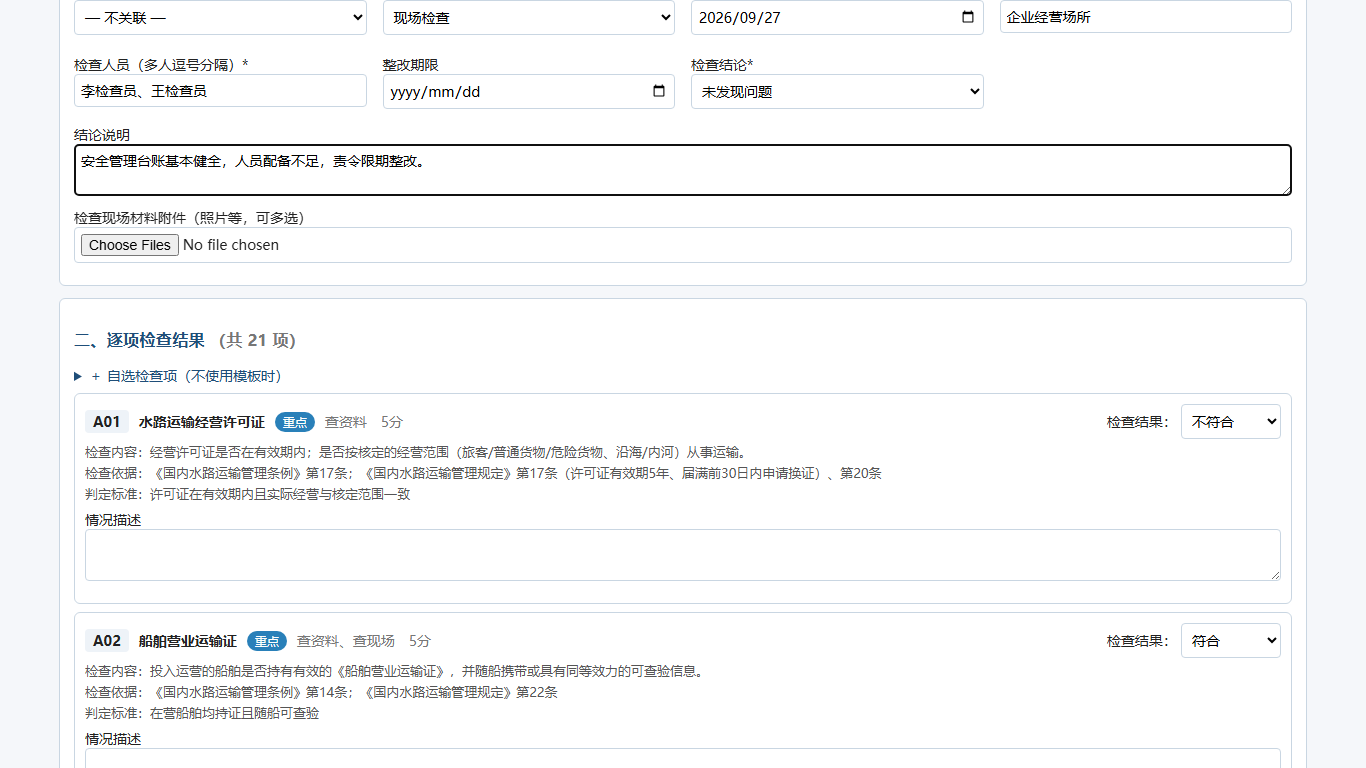
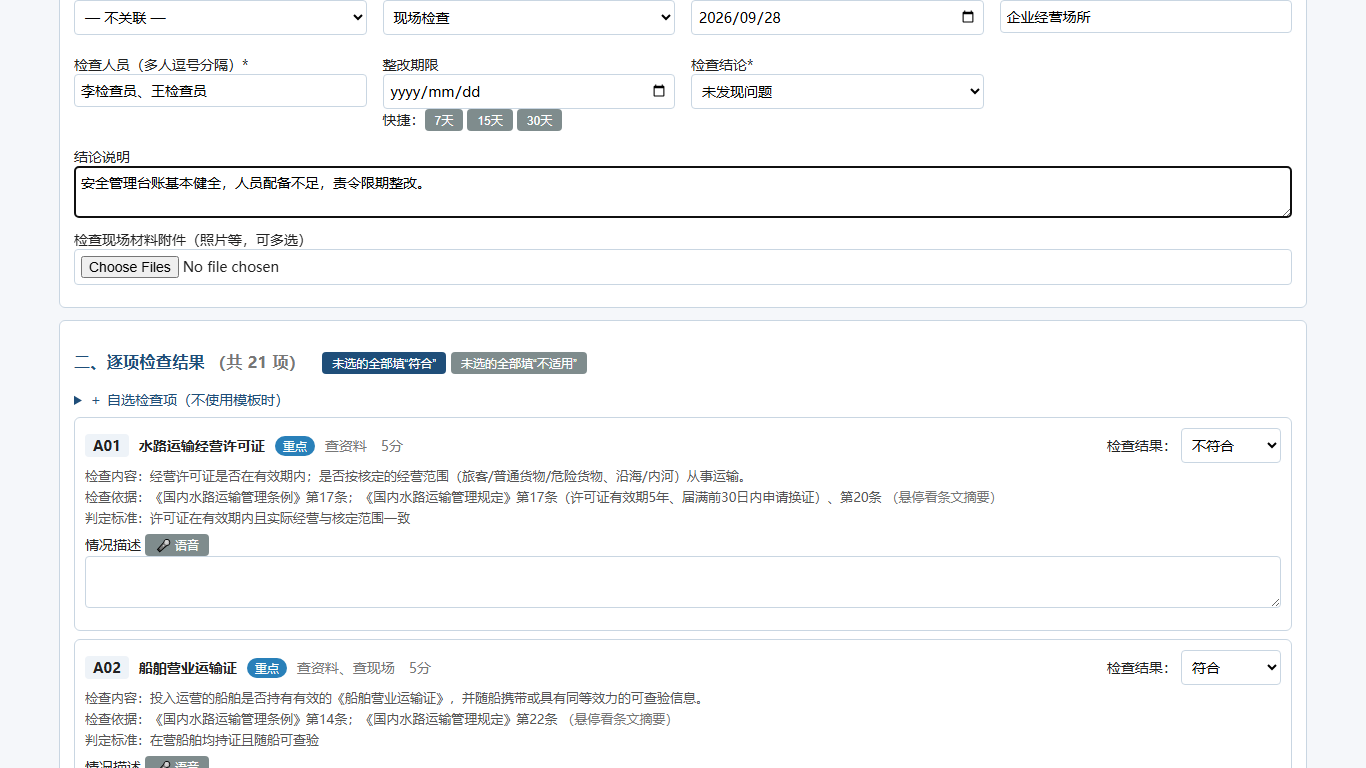
E2E 20→25（一键填充/快捷期限/连录/延期申请与审批进浏览器级回归）+ README 截图重生成（新UI）

diff --git a/e2e_test.py b/e2e_test.py
@@ -108,16 +108,21 @@ def main():
             page.click("#entform button")
             ok("新建企业（data-show 委托生效）", "E2E测试航运有限公司" in page.content())
 
-            # 3. 登记检查：模板 + 逐项下拉点选 + 提交
+            # 3. 登记检查：模板 + 一键填充 + 快捷期限 + 逐项点选 + 提交
             page.goto(URL + "/inspections/new")
             page.select_option("select[name=enterprise_id]", index=1)   # 首个企业（空库仅一家）
             page.select_option("#tpl_sel", index=1)
             selects = page.locator("select[data-res]")
             n = selects.count()
-            for i in range(n):
-                selects.nth(i).select_option(label="符合")   # data-res 变更委托
+            page.click("#btn-all-ok")                 # 未选项一键填充“符合”
+            filled = selects.evaluate_all("els => els.every(e => e.value === '符合')")
+            ok("一键填充（未选的全部填符合）", n > 0 and filled, f"n={n}")
+            page.click("button[data-deadline='15']")  # 快捷期限 15 天
+            ok("快捷整改期限（15天自动填）", bool(page.input_value("input[name=deadline]")),
+               page.input_value("input[name=deadline]"))
+            ok("连录按钮存在（保存并登记下一家）", page.locator("#btn-submit-next").count() == 1)
             cnt = page.locator("#item-count").inner_text()
-            ok("逐项结果点选生效（委托 change）", n > 0 and "共 %d 项" % n in cnt, f"n={n} cnt={cnt}")
+            ok("逐项结果点选生效（委托 change）", "共 %d 项" % n in cnt, f"n={n} cnt={cnt}")
             # 造一个“不符合”项 → 自动带出问题卡（走真实 onResult 委托路径）
             selects.first.select_option(label="不符合")
             req = page.locator("textarea[data-pf$=':requirement']").first
@@ -156,7 +161,13 @@ def main():
                 page.wait_for_load_state()
             ok("企业工作台待办区", "待我整改" in page.content() and "工作台" in page.content())
             page.goto(ins_url)
-            page.click("text=✎ 整改反馈")          # 子串匹配：按钮文案为“✎ 整改反馈（填写）”
+            page.evaluate("document.querySelectorAll('details').forEach(d => { d.open = true; })")   # 展开折叠区
+            # 延期申请（企业提出，政府稍后审批）
+            page.fill("input[name=ext_deadline]", "2030-06-30")
+            page.fill("input[name=ext_reason]", "E2E台风影响停工")
+            page.locator("form[action*='/ext'] button").click()
+            ok("企业提交延期申请", wait_text(page, "延期申请中"))
+            page.evaluate("document.querySelectorAll('details').forEach(d => { d.open = true; })")
             page.fill("textarea[name=measure]", "E2E整改措施：已整改到位")
             page.click("text=提交整改反馈")
             ok("企业整改反馈提交", wait_text(page, "待复核"))
@@ -169,6 +180,8 @@ def main():
             page.click("button[type=submit]")
             page.wait_for_load_state()
             page.goto(ins_url)
+            page.click("button[value='approve']")   # 批准延期（新期限生效并留痕）
+            ok("政府批准延期", wait_text(page, "延期已批准"))
             page.select_option("select[name=result]", "pass")
             page.click("text=提交复核")
             ok("复核通过自动闭环", wait_text(page, "已闭环"))

diff --git a/操作手册.md b/操作手册.md
@@ -103,5 +103,5 @@
 4. 数据存放在 `data\` 目录（数据库 app.db + 上传附件 uploads\ + 归档包 archives\ + 会话密钥 secret.key），备份直接拷贝该目录即可；WAL 模式下同目录还有 `app.db-wal`/`app.db-shm`，**手工备份一并拷走**（一键备份已自动处理）。
 5. 上线到政务外网时：会话密钥无需手改——首次启动会自动在 `data\secret.key` 生成随机密钥（也可用环境变量 `SLYS_SECRET` 指定，要求≥32位），请与数据库一并备份，**删除它会使全部已登录会话失效**。外网访问设置环境变量 **`SLYS_HOST=0.0.0.0`**（端口用 `SLYS_PORT` 覆盖）即可，**无需改源码**；Docker 部署直接 `docker compose up -d`（已默认 0.0.0.0）。
 6. 技术栈说明：原提示词为 Spring Boot 方案，本机无 JDK 故改用 Python FastAPI＋SQLite＋reportlab/openpyxl/python-docx（同等方案：零编译、双击启动、免数据库安装，适合政务内网小规模部署）。
-7. 回归测试：`python smoke_test.py` 跑 187 项全流程用例 + `python e2e_test.py` 20 项浏览器级 E2E（含签字画板、手机视口、CSP、审计哈希链），全绿即系统正常；测试用隔离数据目录，跑完自动清理。运行日志自动落盘 `data\logs\app.log`（超 5MB 轮转一代），排查问题看该文件。
+7. 回归测试：`python smoke_test.py` 跑 187 项全流程用例 + `python e2e_test.py` 25 项浏览器级 E2E（含签字画板、手机视口、CSP、审计哈希链、一键填充、延期审批），全绿即系统正常；测试用隔离数据目录，跑完自动清理。运行日志自动落盘 `data\logs\app.log`（超 5MB 轮转一代），排查问题看该文件。
 8. **可选配置**（环境变量，不配不影响主流程）：`SLYS_WEBHOOK_URL` 群机器人提醒推送｜`SLYS_PUSH_TIME` 推送时间（默认 08:30）｜`SLYS_PUBLIC_NOTICE` 公示页开关｜`SLYS_ALLOW_GOV_FEEDBACK` 允许政府代企业录整改反馈（默认允许并全程标注"代录"；置 0 则必须企业自行提交）。**HTTPS**：用 `deploy\nginx-sample.conf` 反代（替换域名与证书路径）。

diff --git a/需求规格说明书.md b/需求规格说明书.md
@@ -146,7 +146,7 @@
 3. 登记→下发→整改→复核→闭环→归档全流程走通，状态机正确；
 4. 归档 ZIP 内容齐全、文件可打开、SHA256 校验一致、命名合规；
 5. 归档锁定与更正留痕有效；操作日志完整；
-6. 回归测试 `python smoke_test.py` 187 项全绿 + `python e2e_test.py` 20 项浏览器级 E2E（安全机制、会话失效、越权隔离、XSS/CSRF、Cookie 安全属性、状态机、归档落盘与锁定、更正留痕、签字画板、打印、双随机种子可复现、计划核销、并发编号唯一、消息提醒与公示、批量打印、月度考核、船舶导入、审计日志哈希链、表单校验友好化、问题整改进度、服务端必填与引用校验、检查项版本历史、整改前后对比、未检查项、连录、延期申请审批、考核报表套打、服务端校验）；发布前用 `deploy\release.ps1` 一键检查（语法/回归/JS/文档口径/敏感文件门禁）。
+6. 回归测试 `python smoke_test.py` 187 项全绿 + `python e2e_test.py` 25 项浏览器级 E2E（安全机制、会话失效、越权隔离、XSS/CSRF、Cookie 安全属性、状态机、归档落盘与锁定、更正留痕、签字画板、打印、双随机种子可复现、计划核销、并发编号唯一、消息提醒与公示、批量打印、月度考核、船舶导入、审计日志哈希链、表单校验友好化、问题整改进度、服务端必填与引用校验、检查项版本历史、整改前后对比、未检查项、连录、延期申请审批、考核报表套打、一键填充、快捷期限、服务端校验）；发布前用 `deploy\release.ps1` 一键检查（语法/回归/JS/文档口径/敏感文件门禁）。
 
 ## 6. 技术实现说明
 原方案 Spring Boot＋PostgreSQL，因本机无 JDK 调整为 Python FastAPI＋SQLite＋reportlab/openpyxl/python-docx（同等方案：零编译、双击启动、免数据库安装）。页面即原型（B/S 已实现）。

diff --git a/README.md b/README.md
@@ -81,7 +81,7 @@ pdfgen/zipgen/exportgen   文书 PDF、归档 ZIP、Excel/Word 导出
 db_maintenance.py   数据库体检/备份轮转/演示数据清理/VACUUM
 deploy/             nginx HTTPS 样例、定时备份脚本
 smoke_test.py       187 项全流程回归（隔离数据目录，跑完自动清理）
-e2e_test.py         20 项浏览器级 E2E（Playwright：真实点击/签字画板/手机视口/CSP）
+e2e_test.py         25 项浏览器级 E2E（Playwright：真实点击/签字画板/手机视口/CSP）
 ```
 
 ## 测试
